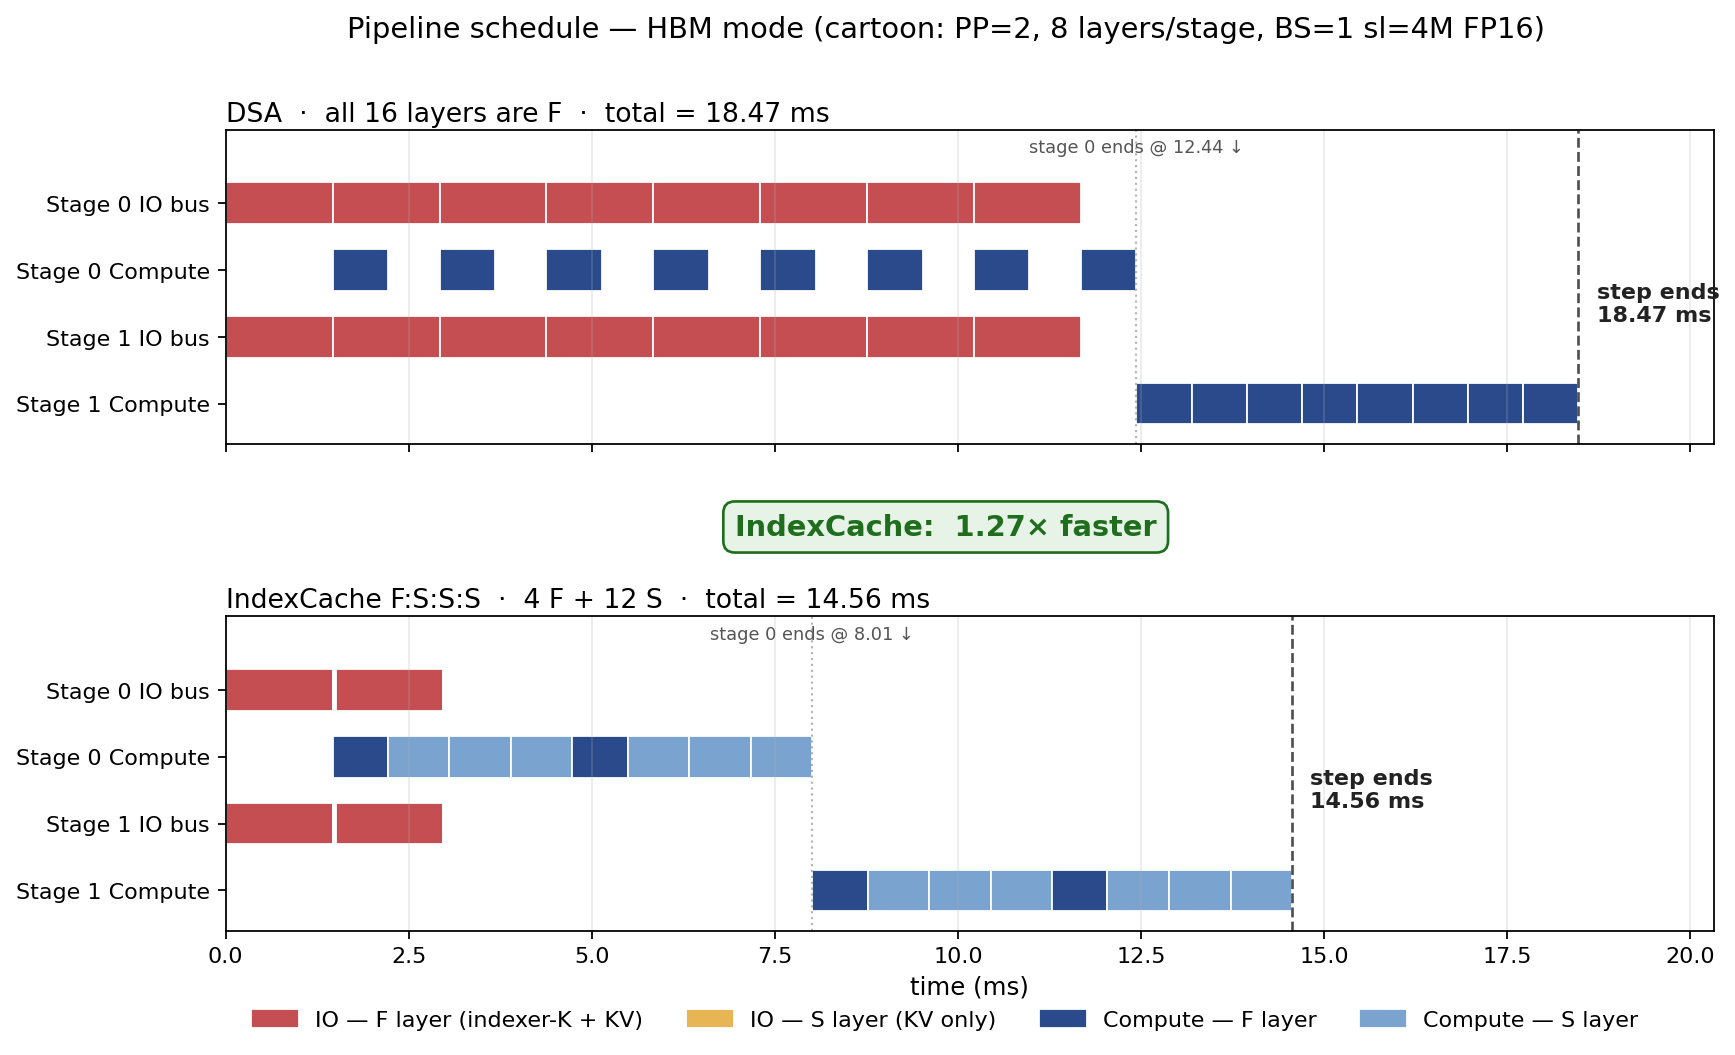
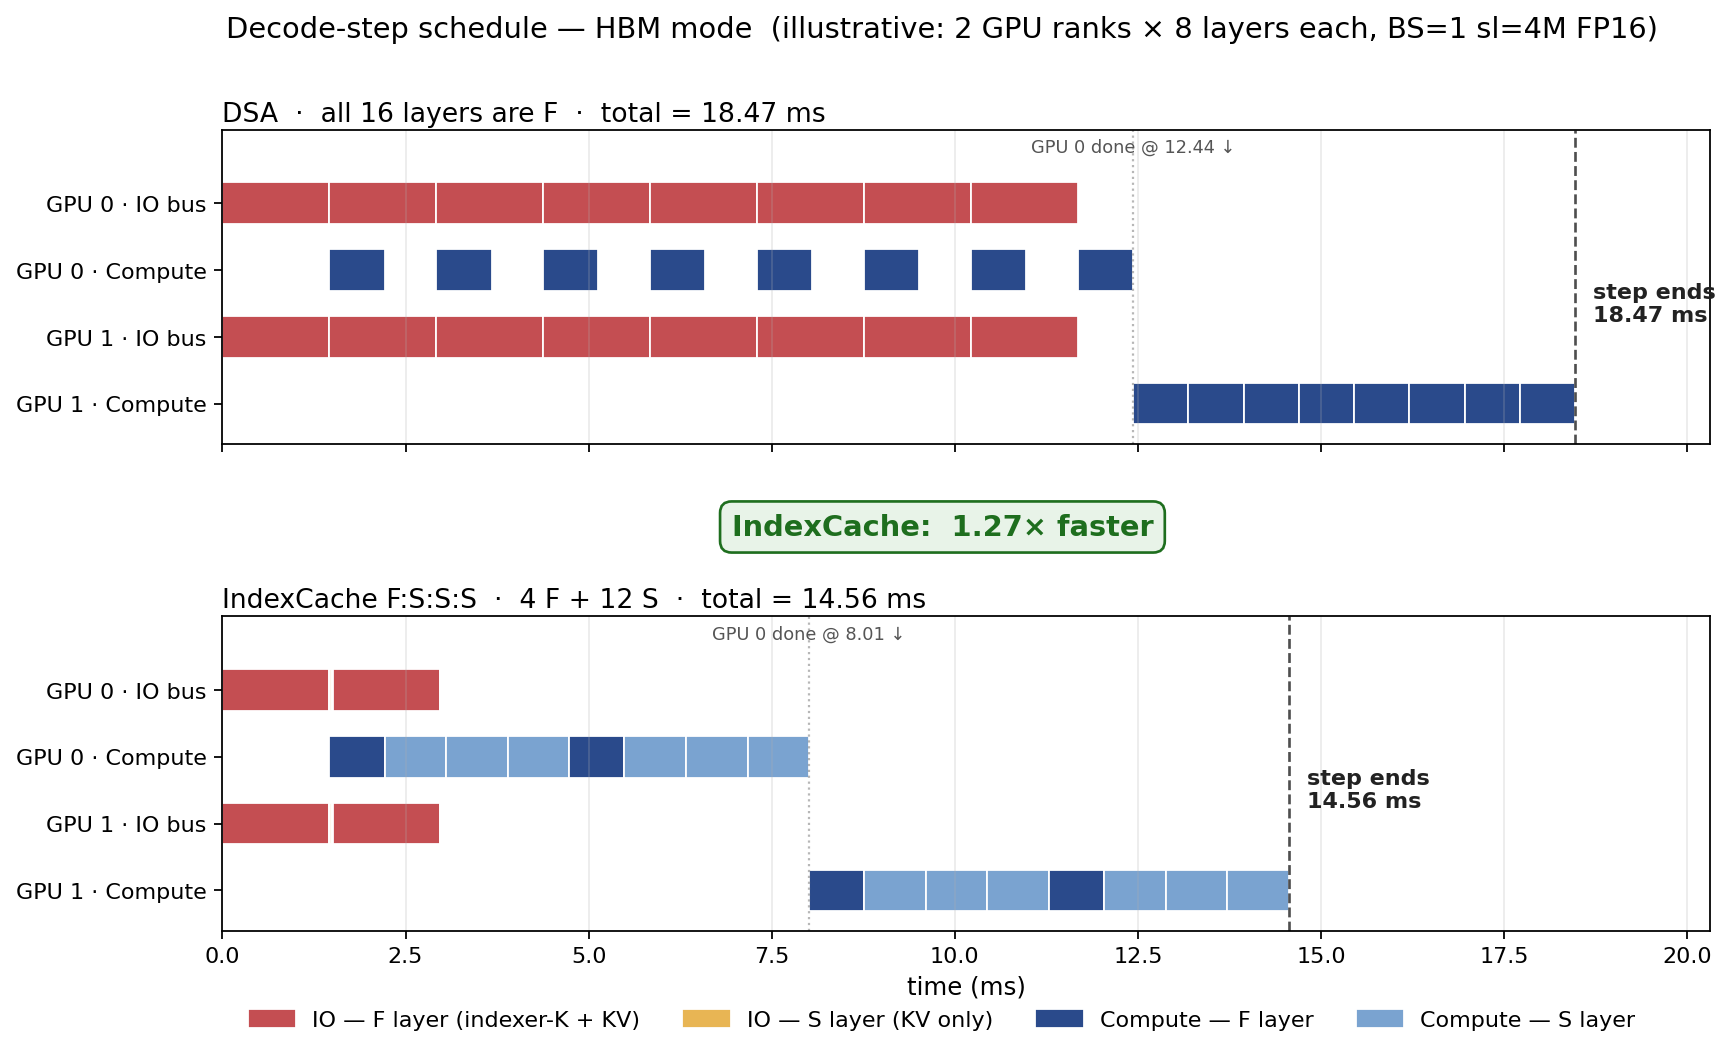
Clarify pipeline timeline figure: GPU ranks instead of stages
Replace "Stage 0/1" with "GPU 0/1" and remove the word "cartoon"
from the subtitle so the figure is self-explanatory without prior
knowledge of PP terminology.

https://claude.ai/code/session_01Hc6HPkDRmKxauvdumkV5Yi

diff --git a/experiments/generate_slide_figures.py b/experiments/generate_slide_figures.py
@@ -262,8 +262,8 @@ def fig_pipeline_timeline():
         f"IndexCache F:S:S:S  ·  4 F + 12 S  ·  total = {ic_total:.2f} ms",
     ]
     max_t = max(dsa_total, ic_total) * 1.10
-    lane_labels = ["Stage 0 IO bus", "Stage 0 Compute",
-                   "Stage 1 IO bus", "Stage 1 Compute"]
+    lane_labels = ["GPU 0 · IO bus", "GPU 0 · Compute",
+                   "GPU 1 · IO bus", "GPU 1 · Compute"]
     y_pos = [3, 2, 1, 0]
 
     for ax, run, title in zip(axes, [dsa, ic], titles):
@@ -295,7 +295,7 @@ def fig_pipeline_timeline():
 
         # Stage 0 end marker (when stage 1 compute can begin)
         ax.axvline(s0_end, color="#888", linestyle=":", linewidth=1, alpha=0.6)
-        ax.text(s0_end, 3.7, f"stage 0 ends @ {s0_end:.2f} ↓",
+        ax.text(s0_end, 3.7, f"GPU 0 done @ {s0_end:.2f} ↓",
                 fontsize=8, color="#555", ha="center", va="bottom")
 
     axes[1].set_xlabel("time (ms)", fontsize=11)
@@ -316,8 +316,8 @@ def fig_pipeline_timeline():
     fig.legend(handles=handles, loc="lower center", ncol=4, fontsize=10,
                frameon=False, bbox_to_anchor=(0.5, -0.005))
 
-    fig.suptitle("Pipeline schedule — HBM mode "
-                 "(cartoon: PP=2, 8 layers/stage, BS=1 sl=4M FP16)",
+    fig.suptitle("Decode-step schedule — HBM mode  "
+                 "(illustrative: 2 GPU ranks × 8 layers each, BS=1 sl=4M FP16)",
                  fontsize=13, y=0.99)
 
     plt.tight_layout(rect=(0, 0.05, 1, 0.95))
